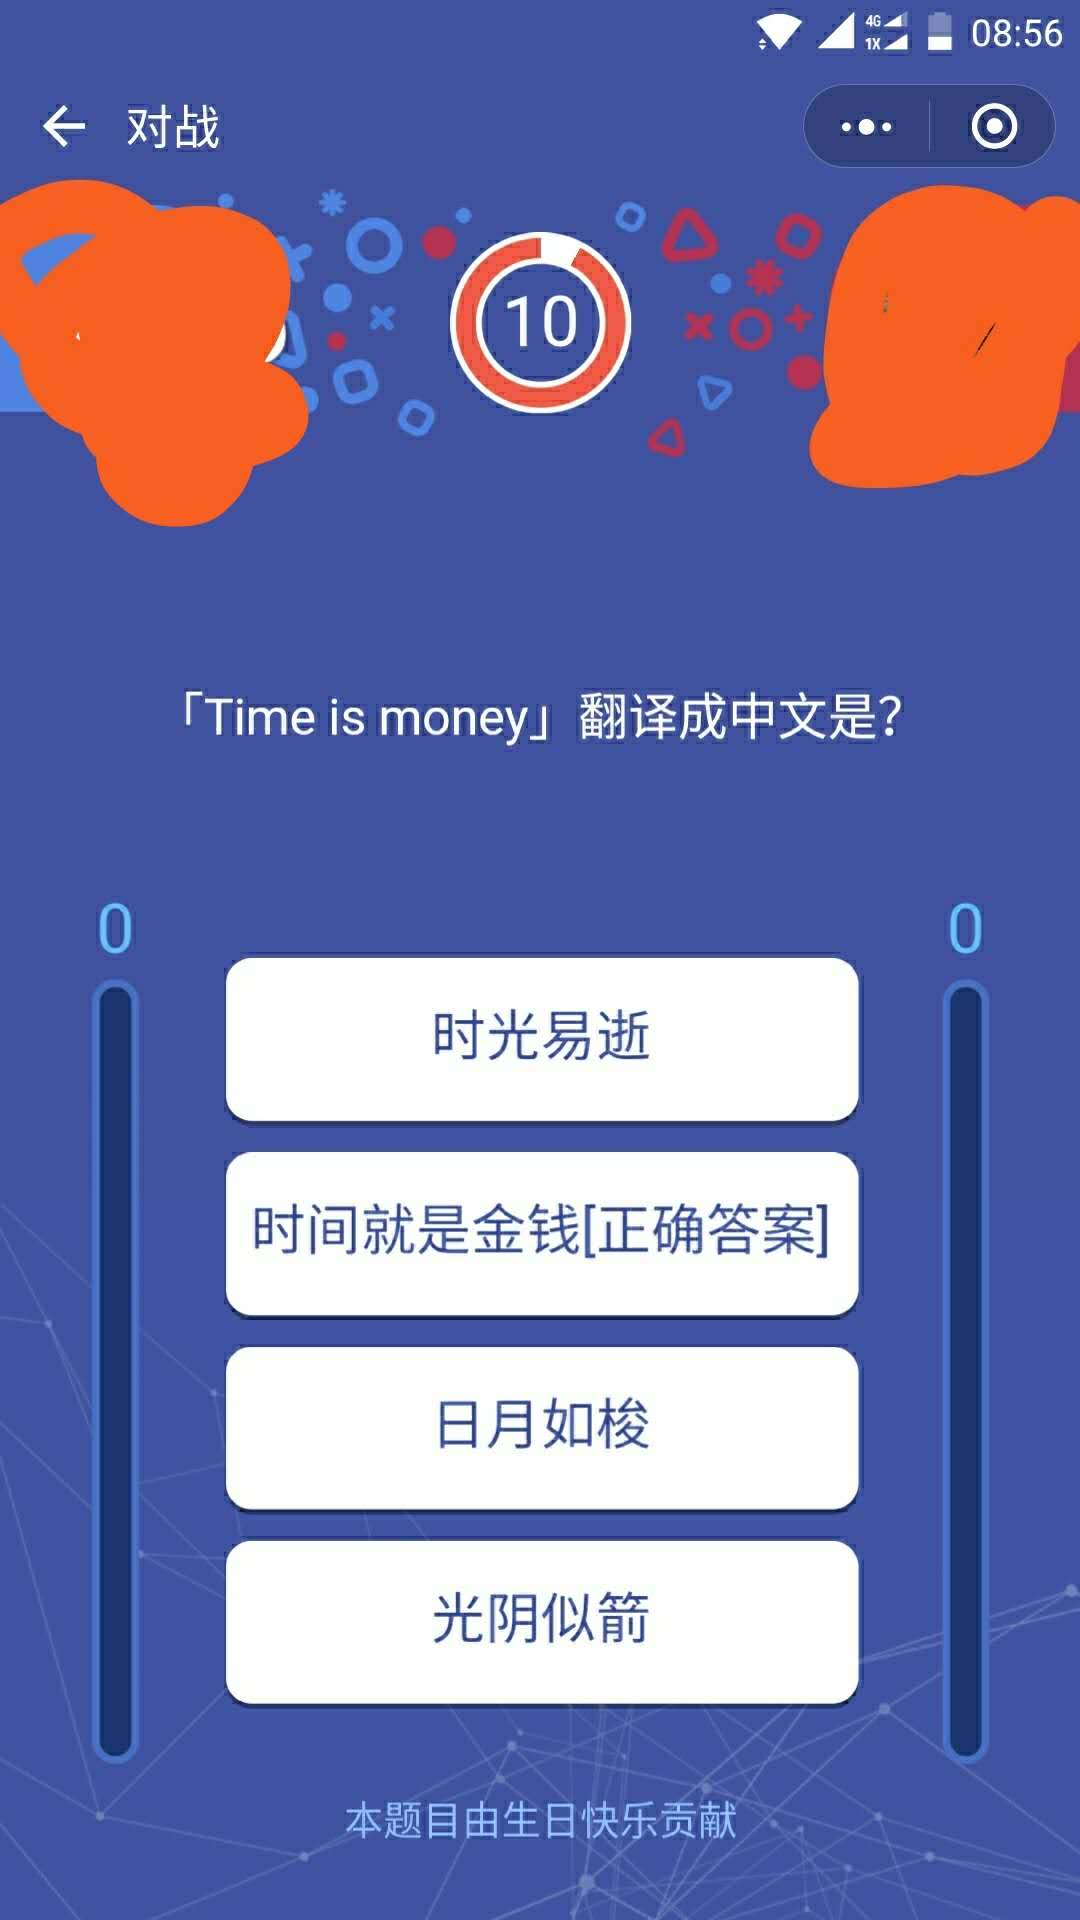
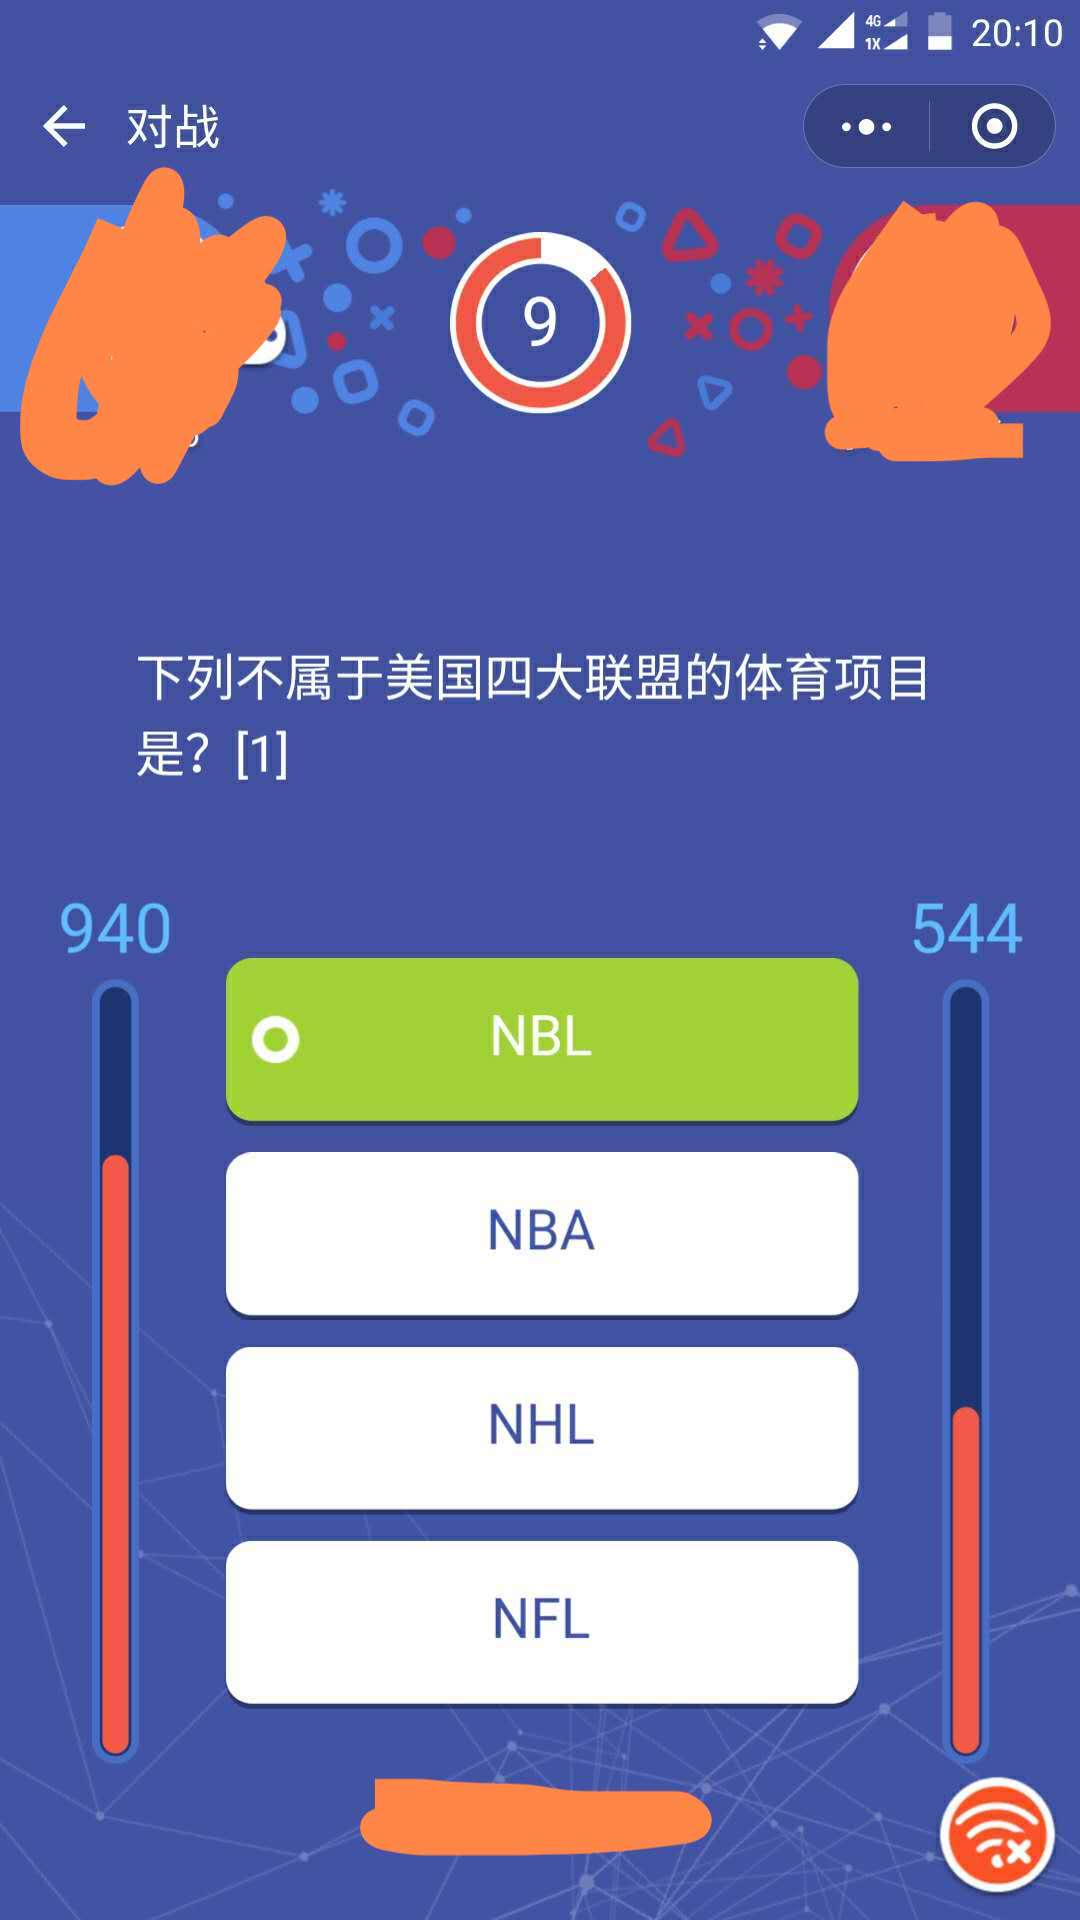
答案不再显示在选项里，直接显示在问题后。这样更简单。

diff --git a/proxy.py b/proxy.py
@@ -41,9 +41,7 @@ def intercept_quiz(req, rsp):
     q = question.strip() + "|" + "|".join(sorted(options))
     row = db.execute("SELECT answer FROM quiz WHERE q == ?", [q]).fetchone()
     if row:
-        ans_idx = options.index(row[0])
-        ctx.log("正确答案为 %d" % (ans_idx + 1))
-        options[ans_idx] += "[正确答案]"
+        r['data']['quiz'] = "{}[{}]".format(question, 1+options.index(row[0]))
     else:
         # 暂存问题
         key = question_key(req.content)

diff --git a/README.md b/README.md
@@ -1,24 +1,21 @@
 # 介绍
 
 头脑王者辅助工具。通过HTTPS代理的方式在答题选项中插入正确答案。
-如果题库(当前16709条)中有该问题，则在正确答案的选项后会插入 **\[正确答案\]**。
+如果题库(当前16709条)中有该问题，则在问题后会插入 **\[正确答案选项\]**。
 如果题库中没有该问题，通过百度查找问题，并在选项中插入其在搜索结果页面中出现的次数(最多和最少)。
 
 # 使用方法
 
-## 在电脑上启动代理服务器(可选)
+## 在电脑上启动代理服务器
 
 ```bash
 pip3 install -r requirements.txt
 mitmproxy -p 8888 -s proxy.py
 ```
 
-可跳过次步骤，使用已配置的在线代理(速度慢一些)： brain.twoyao.cn:8888 
-
 ## 在手机上设置代理地址
 
 保证手机与电脑使用同一局域网下，设置代理地址。
-
 
 
 <div style="display: flex;flex-flow: row; align-items:flex-start;">
@@ -38,3 +35,8 @@ mitmproxy -p 8888 -s proxy.py
 
 <img src="https://raw.githubusercontent.com/twoyao/wechat-brain-king/master/images/bat.jpg" width="300" height="500">
 
+## 感谢
+
+使用mitmproxy的点子来自[hortor_cheater](https://github.com/chxj1992/hortor_cheater)
+
+原始题库来自[tounao](https://github.com/wansir/tounao)
